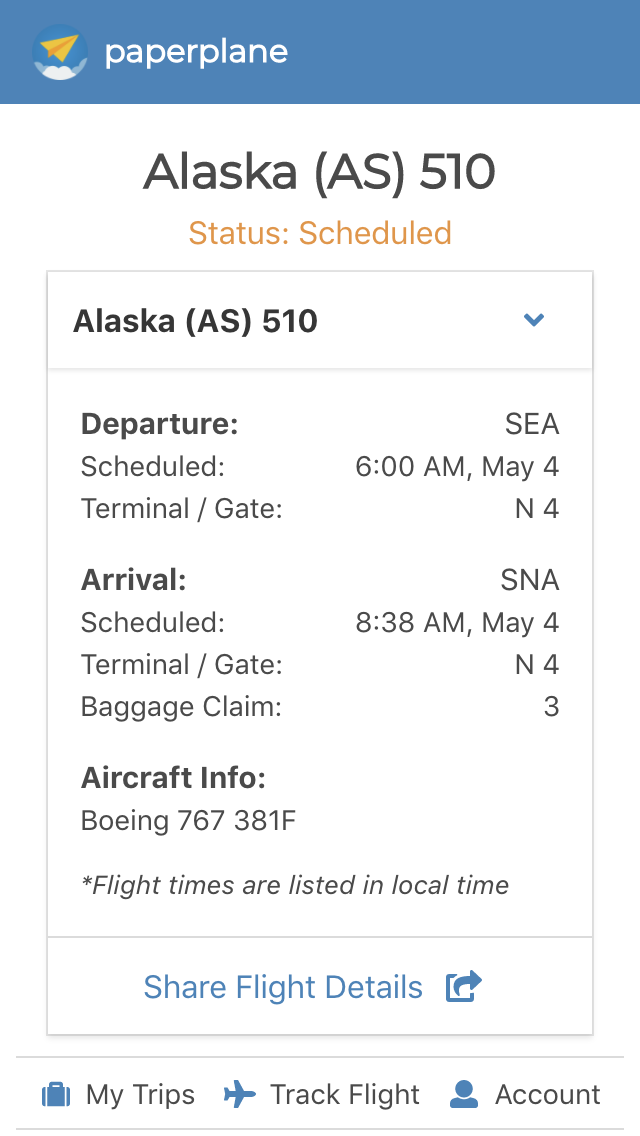
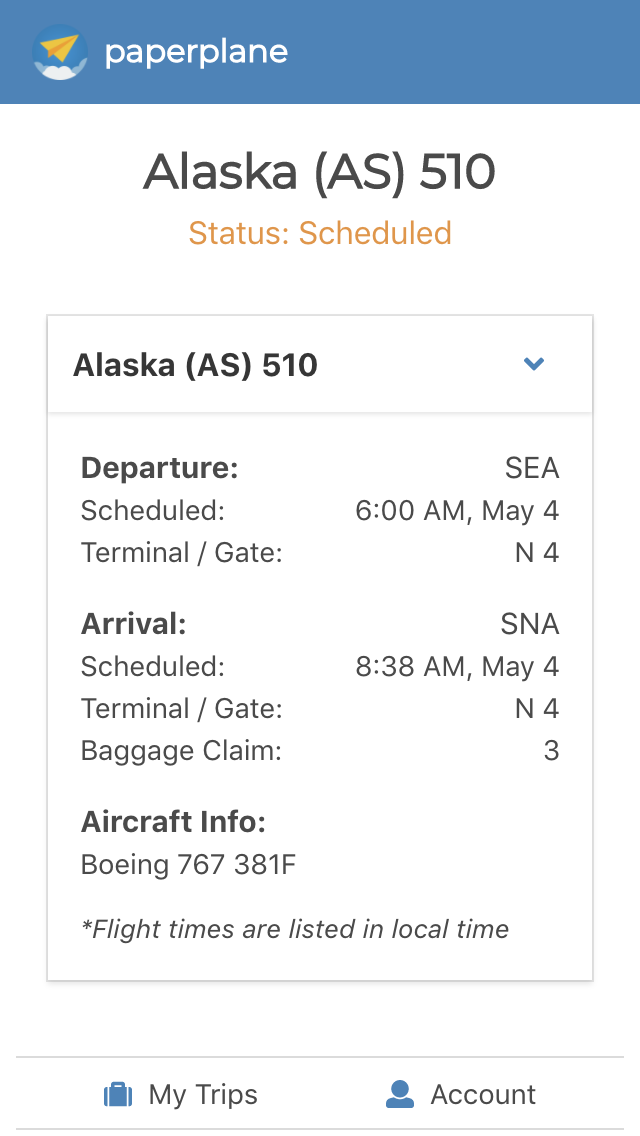
update README

diff --git a/README.md b/README.md
@@ -56,13 +56,12 @@ Paperplane is a mobile-first web app that allows users to track and receive noti
 ### Flight Details:
 
 <!-- ![Flight Details Image](screenshots/placeholder.png) -->
-<!-- ![Share Flight Image](screenshots/placeholder.png) -->
-<img src="https://github.com/aahn84/paperplane-backend/blob/master/screenshots/placeholder" width="30%">      <img src="https://github.com/aahn84/paperplane-backend/blob/master/screenshots/placeholder.png" width="30%">
+<img src="https://github.com/aahn84/paperplane-backend/blob/master/screenshots/paperplane-flightdetails" width="30%">
 
-### Flight Details:
+### My Account:
 
 <!-- ![My Account Image](screenshots/placeholder.png) -->
-<img src="https://github.com/aahn84/paperplane-backend/blob/master/screenshots/placeholder.png" width="30%">
+<img src="https://github.com/aahn84/paperplane-backend/blob/master/screenshots/paperplane-myaccount.png" width="30%">
 
 ## Setup
 1. Fork and clone this repository
